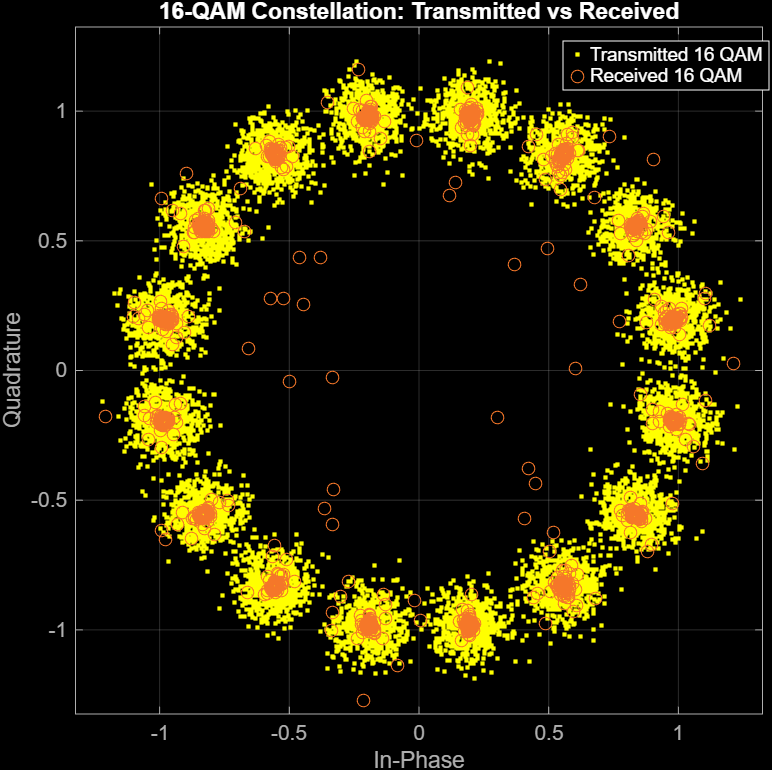
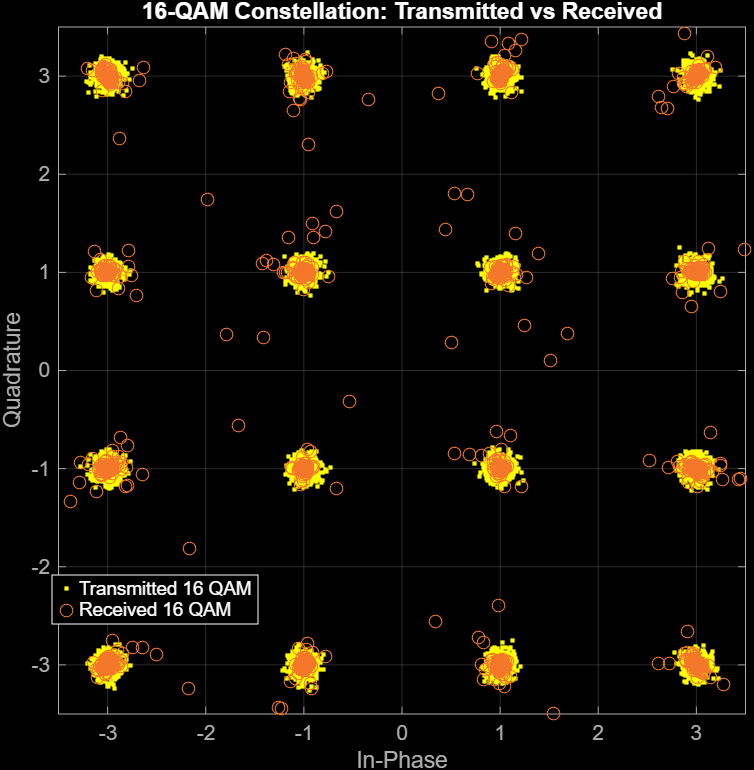
a

diff --git a/practicas/practica2/matlab/task5_3.m b/practicas/practica2/matlab/task5_3.m
@@ -13,47 +13,32 @@ Fs = OF / T;
 rng(2025);                              % Set seed for reproducibility
 M = 16;
 dataSymbols = randi([0 M-1], 10000, 1); % Generate 10000 random 16 QAM symbols
-txSig = pskmod(dataSymbols, M, pi/M); % 16 QAM modulation
-%scatterplot(awgn(txSig,20));hold on; grid on;
-
+txSig = qammod(dataSymbols, M, 'UnitAveragePower', true); % 16 QAM modulation
 data = txSig.';
 
 [x, u, w] = OFDMmod(data, N, Lc, OF, nullpos);
 
 % Define multipath channel htilde(t)
 % h_tilde(t) = sum of Dirac deltas at specified delays
-tau = [0, 2*T, 3*T, 4*T];              % Delays in seconds
-alpha = [1, 0.7, 0.4, 0.5];            % Amplitudes
-phi = [0, -pi/2, pi/4, pi/2];          % Phases
-
-% Convert to complex channel taps
+tau = [0, 2*T, 3*T, 4*T];
+alpha = [1, 0.7, 0.4, 0.5];
+phi = [0, -pi/2, pi/4, pi/2];
 h_tilde = alpha .* exp(1j * phi);
 
-% Convert delays to sample indices at rate Fs
 delay_samples = round(tau * Fs);
 
 % Create discrete-time channel impulse response
 max_delay = max(delay_samples);
 h_tilde_discrete = zeros(1, max_delay + 1);
-for i = 1:length(tau)
-    h_tilde_discrete(delay_samples(i) + 1) = h_tilde(i);
-end
+h_tilde_discrete(delay_samples + 1) = h_tilde;
 
 z = conv(x, h_tilde_discrete);
-
 dem_data = OFDMdem(z, N, Lc, OF, ones(N, 1), nullpos);
 
-%% Plot received constellation without equalization
-figure;
-scatter(real(dem_data), imag(dem_data), 10, 'b', 'filled', 'MarkerFaceAlpha', 0.5);
-grid on;
-xlabel('In-Phase');
-ylabel('Quadrature');
-title('Received 16-QAM Constellation - No Equalization (H=1)');
-axis equal;
-
-%% For comparison: plot ideal 16-QAM constellation
+%% Plot using scatterplot
+fig = scatterplot(dem_data, 1, 0, 'b.');
 hold on;
-ideal_qam = qammod(0:15, 16);
-scatter(real(ideal_qam), imag(ideal_qam), 100, 'r', 'x', 'LineWidth', 2);
-legend('Received (no EQ)', 'Ideal 16-QAM', 'Location', 'best');
+ideal_qam = qammod(0:15, M, 'gray');
+scatterplot(ideal_qam, 1, 0, 'r*', fig);
+title('Received 16-QAM Constellation');
+legend('Received', 'Ideal 16-QAM');

diff --git a/practicas/practica2/matlab/task5_6.m b/practicas/practica2/matlab/task5_6.m
@@ -13,7 +13,7 @@ Fs = OF / T;
 rng(2025);                              % Set seed for reproducibility
 M = 16;
 dataSymbols = randi([0 M-1], 10000, 1); % Generate 10000 random 16 QAM symbols
-txSig = pskmod(dataSymbols, M, pi/M); % 16 QAM modulation
+txSig = qammod(dataSymbols, M, 'UnitAveragePower', true); % 16 QAM modulation
 %scatterplot(awgn(txSig,20));hold on; grid on;
 
 data = txSig.';
@@ -21,29 +21,18 @@ data = txSig.';
 [x, u, w] = OFDMmod(data, N, Lc, OF, nullpos);
 
 %% \tilde h(t) = \delta(t) -0.8\delta(t-5T) +0.7\delta(t-10T).
-tau = [0, 5*T, 10*T];
+tau_symbol_rate = [0, 5, 10]; % Porque son 0, 5T, 10T
 alpha = [1, -0.8, 0.7];
-phi = [0, 0, 0]; % No phase terms
 
-% Convert to complex channel taps
-h_tilde = alpha .* exp(1j * phi);  % Just the real amplitudes
+% Creamos el canal equivalente h[n] (a tasa de símbolo)
+h_eff = zeros(1, 11); % Longitud máxima es 10, +1 por índice 1 de Matlab
+h_eff(tau_symbol_rate + 1) = alpha;
 
-% Convert delays to sample indices
-delay_samples = round(tau * Fs);
-
-% Create discrete-time channel impulse response
-max_delay = max(delay_samples);
-h_tilde_discrete = zeros(1, max_delay + 1);
-for i = 1:length(tau)
-    h_tilde_discrete(delay_samples(i) + 1) = h_tilde(i);
-end
+% Ahora calculamos la H correcta para el ecualizador (tamaño N=64)
+H = fft(h_eff, N).'; 
 
 % Received signal
-z = conv(x, h_tilde_discrete);
-
-% Compute correct H[k]
-h_tilde_padded = [h_tilde_discrete, zeros(1, N - length(h_tilde_discrete))];
-H = fft(h_tilde_padded, N).';
+z = conv(x, H);
 
 % Demodulate with equalization
 dem_data = OFDMdem(z, N, Lc, OF, H, nullpos);

diff --git a/practicas/practica2/matlab/task5_2.m b/practicas/practica2/matlab/task5_2.m
@@ -13,7 +13,7 @@ Fs = OF / T;
 rng(2025);                              % Set seed for reproducibility
 M = 16;
 dataSymbols = randi([0 M-1], 10000, 1); % Generate 10000 random 16 QAM symbols
-txSig = pskmod(dataSymbols, M, pi/M); % 16 QAM modulation
+txSig = qammod(dataSymbols, M, 'UnitAveragePower', true); % 16 QAM modulation
 scatterplot(awgn(txSig,20));
 hold on; grid on;
 
@@ -36,9 +36,7 @@ delay_samples = round(tau * Fs);
 % Create discrete-time channel impulse response
 max_delay = max(delay_samples);
 h_tilde_discrete = zeros(1, max_delay + 1);
-for i = 1:length(tau)
-    h_tilde_discrete(delay_samples(i) + 1) = h_tilde(i);
-end
+h_tilde_discrete(delay_samples + 1) = h_tilde;
 
 %% Generate received signal z(t) at receiver (no noise)
 % z(t) = x(t) * h_tilde(t)

diff --git a/practicas/practica2/matlab/task5_1.m b/practicas/practica2/matlab/task5_1.m
@@ -13,7 +13,7 @@ Fs = OF / T;
 rng(2025);                              % Set seed for reproducibility
 M = 16;
 dataSymbols = randi([0 M-1], 10000, 1); % Generate 10000 random 16 QAM symbols
-txSig = pskmod(dataSymbols, M, pi/M); % 16 QAM modulation
+txSig = qammod(dataSymbols, M, 'UnitAveragePower', true); % 16 QAM modulation
 scatterplot(awgn(txSig,20));
 hold on; grid on;
 
@@ -36,9 +36,7 @@ delay_samples = round(tau * Fs);
 % Create discrete-time channel impulse response
 max_delay = max(delay_samples);
 h_tilde_discrete = zeros(1, max_delay + 1);
-for i = 1:length(tau)
-    h_tilde_discrete(delay_samples(i) + 1) = h_tilde(i);
-end
+h_tilde_discrete(delay_samples + 1) = h_tilde;
 
 % Generate transmit and receive filters
 P = 150;

diff --git a/practicas/practica2/matlab/task5_4.m b/practicas/practica2/matlab/task5_4.m
@@ -13,7 +13,7 @@ Fs = OF / T;
 rng(2025);                              % Set seed for reproducibility
 M = 16;
 dataSymbols = randi([0 M-1], 10000, 1); % Generate 10000 random 16 QAM symbols
-txSig = pskmod(dataSymbols, M, pi/M); % 16 QAM modulation
+txSig = qammod(dataSymbols, M, 'UnitAveragePower', true); % 16 QAM modulation
 %scatterplot(awgn(txSig,20));hold on; grid on;
 
 data = txSig.';
@@ -35,9 +35,7 @@ delay_samples = round(tau * Fs);
 % Create discrete-time channel impulse response
 max_delay = max(delay_samples);
 h_tilde_discrete = zeros(1, max_delay + 1);
-for i = 1:length(tau)
-    h_tilde_discrete(delay_samples(i) + 1) = h_tilde(i);
-end
+h_tilde_discrete(delay_samples + 1) = h_tilde;
 
 z = conv(x, h_tilde_discrete);
 

diff --git a/practicas/practica2/matlab/task5_5.m b/practicas/practica2/matlab/task5_5.m
@@ -13,7 +13,7 @@ Fs = OF / T;
 rng(2025);                              % Set seed for reproducibility
 M = 16;
 dataSymbols = randi([0 M-1], 10000, 1); % Generate 10000 random 16 QAM symbols
-txSig = pskmod(dataSymbols, M, pi/M); % 16 QAM modulation
+txSig = qammod(dataSymbols, M, 'UnitAveragePower', true); % 16 QAM modulation
 %scatterplot(awgn(txSig,20));hold on; grid on;
 
 data = txSig.';
@@ -35,9 +35,7 @@ delay_samples = round(tau * Fs);
 % Create discrete-time channel impulse response
 max_delay = max(delay_samples);
 h_tilde_discrete = zeros(1, max_delay + 1);
-for i = 1:length(tau)
-    h_tilde_discrete(delay_samples(i) + 1) = h_tilde(i);
-end
+h_tilde_discrete(delay_samples + 1) = h_tilde;
 
 z = conv(x, h_tilde_discrete);
 

diff --git a/practicas/practica2/matlab/task4_1_16_qam.m b/practicas/practica2/matlab/task4_1_16_qam.m
@@ -11,7 +11,7 @@ Lc = round(prefix_redundancy * N);
 rng(2025);                              % Set seed for reproducibility
 M = 16;
 dataSymbols = randi([0 M-1], 10000, 1); % Generate 10000 random 16 QAM
-txSig = pskmod(dataSymbols, M, pi/M); % 16 QAM modulation
+txSig = qammod(dataSymbols, M, 'gray'); % 16 QAM modulation
 scatterplot(awgn(txSig,20));
 hold on; grid on;
 
